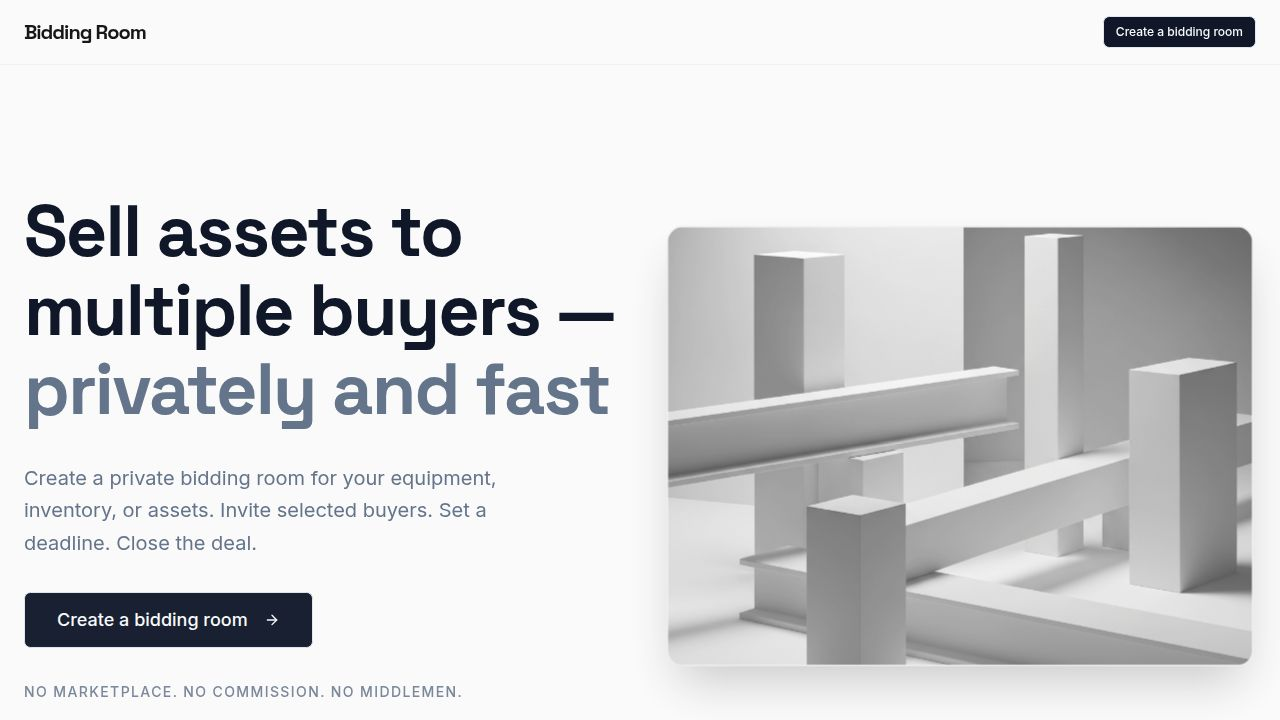
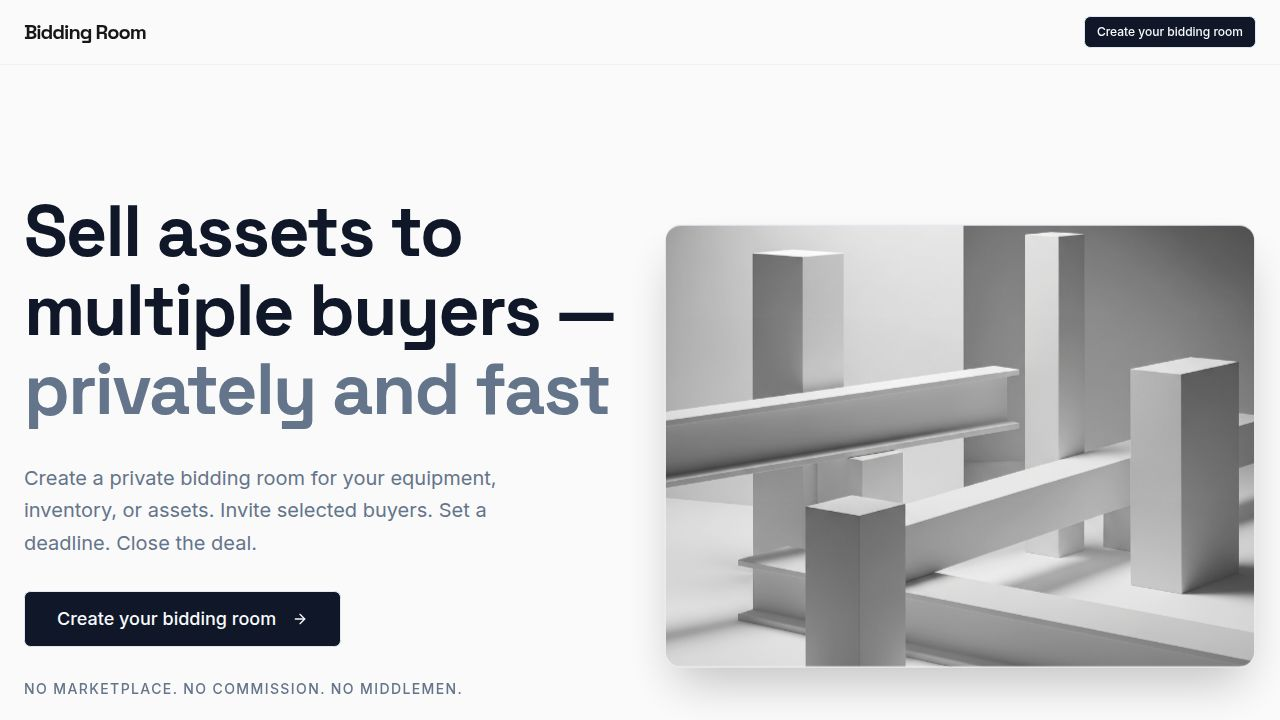
Improve button text and refine pricing plan details
Update CTA button text to "Create your bidding room". Change pricing plan limits from "Limitations" to "Capacity", and update the Pro plan feature from "Priority display of best bid" to "Decision-ready overview".

Replit-Commit-Author: Agent
Replit-Commit-Session-Id: 35c2779f-729e-4799-ab30-b855b95b9747
Replit-Commit-Checkpoint-Type: full_checkpoint
Replit-Commit-Event-Id: 8b1b41ee-abd2-4934-bf09-e2940dbbbe51
Replit-Commit-Screenshot-Url: https://storage.googleapis.com/screenshot-production-us-central1/1df4d0fd-4f3e-4f55-a7ce-f34d7d49b832/35c2779f-729e-4799-ab30-b855b95b9747/XDUdbGA
Replit-Helium-Checkpoint-Created: true

diff --git a/client/src/pages/landing.tsx b/client/src/pages/landing.tsx
@@ -37,7 +37,7 @@ export default function LandingPage() {
             Bidding Room
           </div>
           <Button size="sm" className="hidden md:flex">
-            Create a bidding room
+            Create your bidding room
           </Button>
         </div>
       </nav>
@@ -75,7 +75,7 @@ export default function LandingPage() {
                 className="flex flex-col sm:flex-row gap-4 items-start"
               >
                 <Button size="lg" className="text-lg px-8 h-14">
-                  Create a bidding room <ArrowRight className="ml-2 w-5 h-5" />
+                  Create your bidding room <ArrowRight className="ml-2 w-5 h-5" />
                 </Button>
               </motion.div>
 
@@ -326,7 +326,7 @@ export default function LandingPage() {
                   "Share link with any number of buyers",
                   "View received bids",
                 ],
-                limits: "1 active room at a time",
+                limits: "1 active room",
               },
               {
                 name: "Standard",
@@ -347,7 +347,7 @@ export default function LandingPage() {
                 desc: "For higher value or more pressure in the deal.",
                 features: [
                   "Everything in Standard",
-                  "Priority display of best bid",
+                  "Decision-ready overview",
                   "Extend/change deadline once",
                   "Export (PDF / summary view)",
                 ],
@@ -400,7 +400,7 @@ export default function LandingPage() {
                     {plan.limits && (
                       <div className="pt-4 border-t border-border/50">
                         <div className="text-[10px] uppercase tracking-widest text-muted-foreground font-bold mb-2">
-                          Limitations
+                          Capacity
                         </div>
                         <p className="text-xs text-muted-foreground">
                           {plan.limits}
@@ -473,7 +473,7 @@ export default function LandingPage() {
             variant="secondary"
             className="text-lg px-10 h-16 font-bold"
           >
-            Create a bidding room
+            Create your bidding room
           </Button>
         </div>
       </section>
